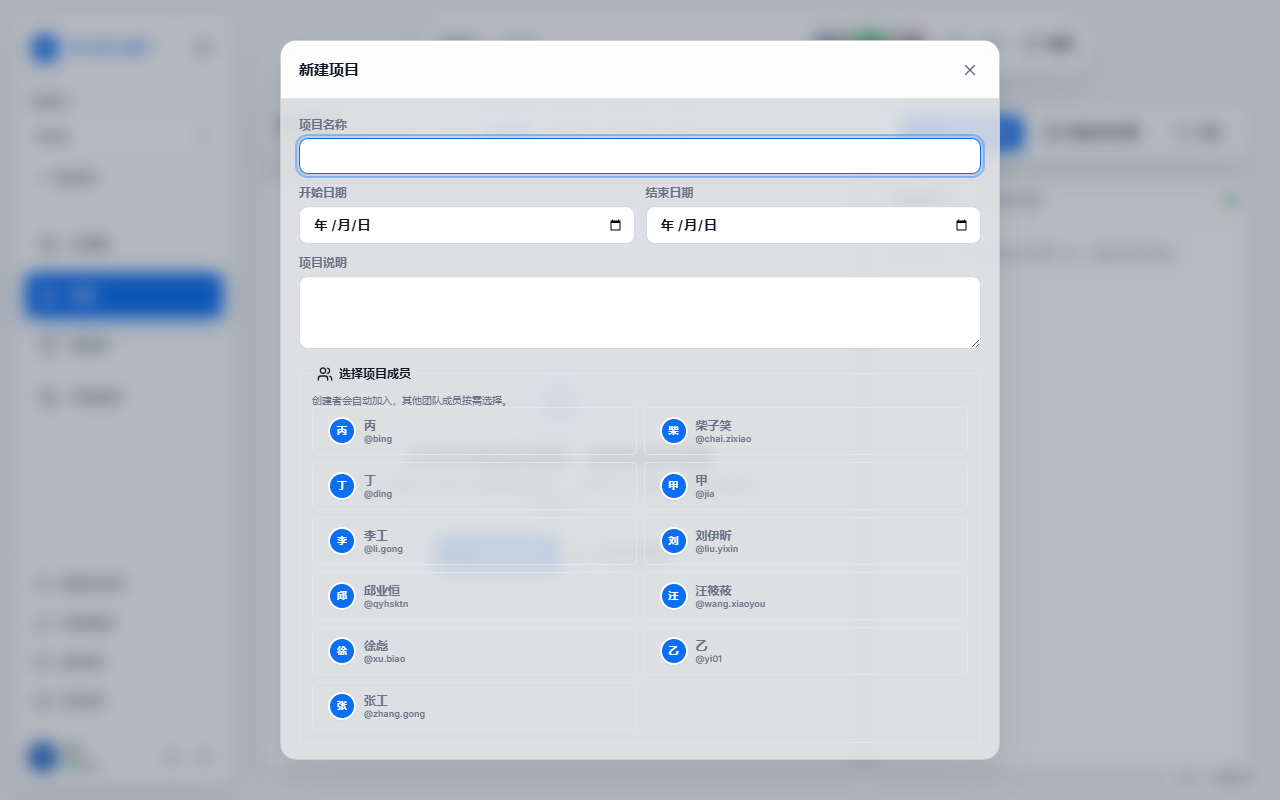
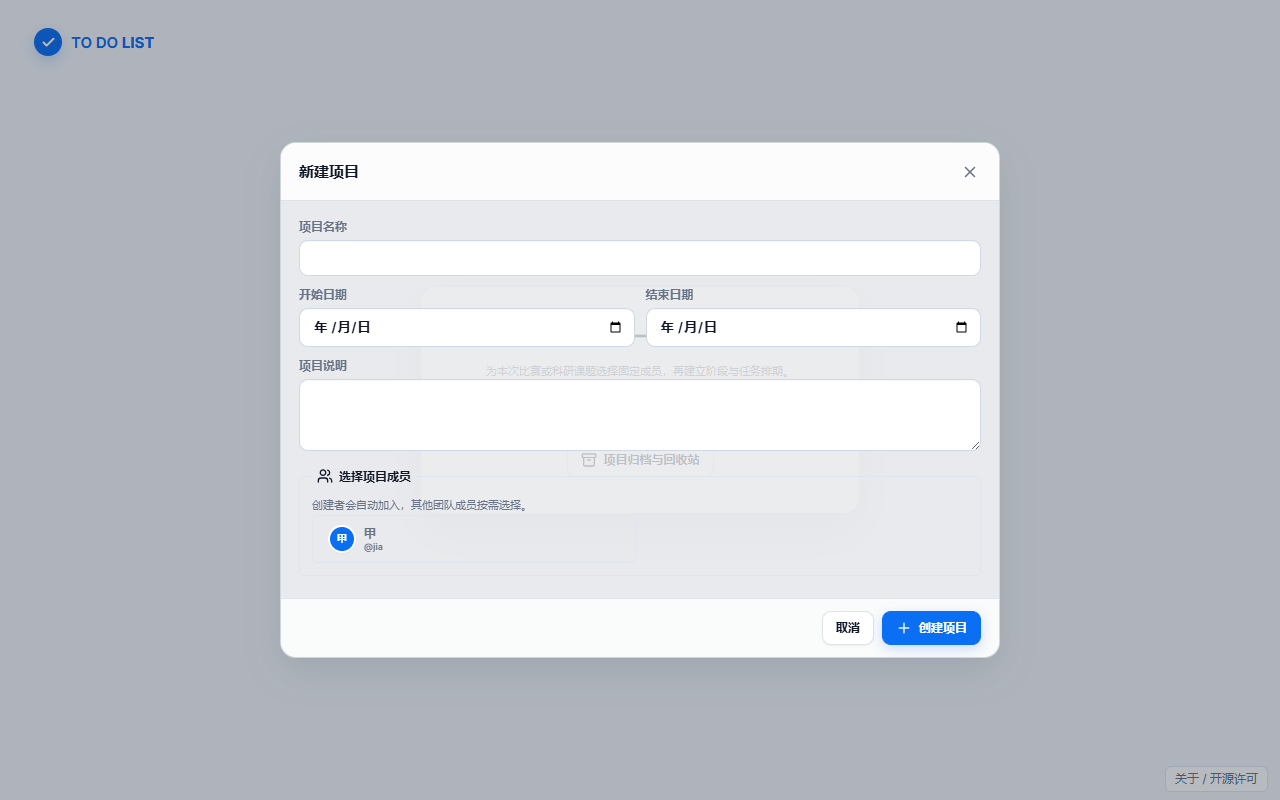
feat(onboarding): tutorial first, guided steps second
Two adjustments from product review:

- the "new project" screenshot showed every team member, but 乙/丙/丁 do
  not exist yet at that point; it was recaptured on a fresh install where
  only 甲 has registered
- the first visit used to show the tutorial and the product tour at the
  same time. The tour is now only mounted after the tutorial is finished
  or skipped (跳过教程), so the order is: five notes -> demo tutorial ->
  step-by-step guide. The tutorial is stored as seen only when it closes,
  so a refresh in the middle still shows it again.

diff --git a/src/App.tsx b/src/App.tsx
@@ -56,24 +56,28 @@ export default function App() {
     localStorage.setItem(ACTIVE_PROJECT_KEY, projectId);
   }, []);
 
-  // 第一次进入工作区时自动播放演示教程；之后可在侧栏随时打开。
-  useEffect(() => {
-    if (auth === undefined) return;
+  // 第一次进入系统必须先看完（或跳过）演示教程，之后才轮到分步引导。
+  const [tutorialDone, setTutorialDone] = useState(() => {
     try {
-      if (window.localStorage.getItem(DEMO_TOUR_KEY) === "1") return;
+      return window.localStorage.getItem(DEMO_TOUR_KEY) === "1";
     } catch {
-      return;
+      return false;
     }
-    const timer = window.setTimeout(() => {
-      setShowTutorial(true);
-      try {
-        window.localStorage.setItem(DEMO_TOUR_KEY, "1");
-      } catch {
-        // 存不进去也没关系。
-      }
-    }, 800);
-    return () => window.clearTimeout(timer);
-  }, [auth]);
+  });
+
+  useEffect(() => {
+    if (auth !== undefined && !tutorialDone) setShowTutorial(true);
+  }, [auth, tutorialDone]);
+
+  const finishTutorial = useCallback(() => {
+    try {
+      window.localStorage.setItem(DEMO_TOUR_KEY, "1");
+    } catch {
+      // 隐私模式下存不进去，本次关闭即可。
+    }
+    setShowTutorial(false);
+    setTutorialDone(true);
+  }, []);
 
   const loadWorkspace = useCallback(async (preferredProjectId?: string) => {
     const [projectResult, memberResult] = await Promise.all([
@@ -180,11 +184,13 @@ export default function App() {
           <button className="primary-button" type="button" data-tour-id="empty-create-project" onClick={() => setShowCreateProject(true)}><Plus size={16} />新建项目</button>
           <button className="secondary-button" type="button" onClick={() => setShowProjectSettings(true)}><Archive size={16} />项目归档与回收站</button>
         </section>
-        {showTutorial ? <DemoTutorial onClose={() => setShowTutorial(false)} /> : null}
+        {showTutorial ? <DemoTutorial onClose={finishTutorial} /> : null}
         {showCreateProject ? <CreateProjectDialog teamMembers={teamMembers} onClose={() => setShowCreateProject(false)} onCreated={projectCreated} /> : null}
         {showProjectSettings ? <ProjectSettingsDialog teamMembers={teamMembers} online={online} guideProgress={tour.progress} onClose={() => setShowProjectSettings(false)} onChanged={loadWorkspace} onReplayGuide={replayGuide} onResetGuides={tour.resetAll} /> : null}
       </main>
-      <ProductTour controller={tour} onCreateProject={openGuidedProjectDialog} />
+      {!showTutorial && tutorialDone ? (
+        <ProductTour controller={tour} onCreateProject={openGuidedProjectDialog} />
+      ) : null}
       </>
     );
   }
@@ -244,7 +250,7 @@ export default function App() {
         </Suspense>
       </AppShell>
       {showHelp ? <HelpDialog onClose={() => setShowHelp(false)} /> : null}
-      {showTutorial ? <DemoTutorial onClose={() => setShowTutorial(false)} /> : null}
+      {showTutorial ? <DemoTutorial onClose={finishTutorial} /> : null}
       {showCreateProject ? <CreateProjectDialog teamMembers={teamMembers} onClose={() => setShowCreateProject(false)} onCreated={projectCreated} /> : null}
       {showInvite ? <InviteDialog projectId={activeProject.project.id} projectName={activeProject.project.name} onClose={() => setShowInvite(false)} /> : null}
       <RegistrationInvitesDialog
@@ -252,7 +258,9 @@ export default function App() {
         onClose={() => setShowRegistrationInvites(false)}
       />
       {showProjectSettings ? <ProjectSettingsDialog project={activeProject} teamMembers={teamMembers} online={online} guideProgress={tour.progress} onClose={() => setShowProjectSettings(false)} onChanged={() => loadWorkspace(activeProject.project.id)} onReplayGuide={replayGuide} onResetGuides={tour.resetAll} /> : null}
-      <ProductTour controller={tour} onCreateProject={openGuidedProjectDialog} />
+      {!showTutorial && tutorialDone ? (
+        <ProductTour controller={tour} onCreateProject={openGuidedProjectDialog} />
+      ) : null}
     </>
   );
 }

diff --git a/src/features/help/DemoTutorial.tsx b/src/features/help/DemoTutorial.tsx
@@ -108,9 +108,14 @@ export function DemoTutorial({ onClose }: { onClose: () => void }) {
           {step.tip !== undefined ? <p className="demo-tour-tip">⚠ {step.tip}</p> : null}
         </div>
         <footer className="demo-tour-actions">
-          <button className="secondary-button" type="button" onClick={() => setIndex(0)} disabled={index === 0}>
-            回到第一步
-          </button>
+          <div>
+            <button className="secondary-button" type="button" onClick={() => setIndex(0)} disabled={index === 0}>
+              回到第一步
+            </button>
+            <button className="link-button" type="button" onClick={onClose}>
+              跳过教程
+            </button>
+          </div>
           <div>
             <button className="secondary-button" type="button" onClick={() => go(-1)} disabled={index === 0}>
               上一步
